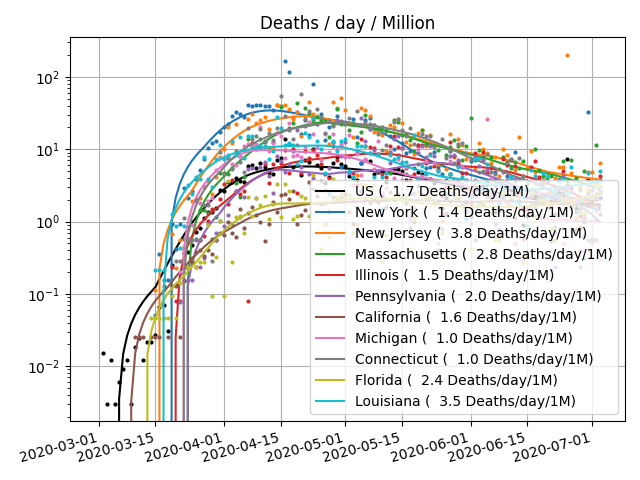
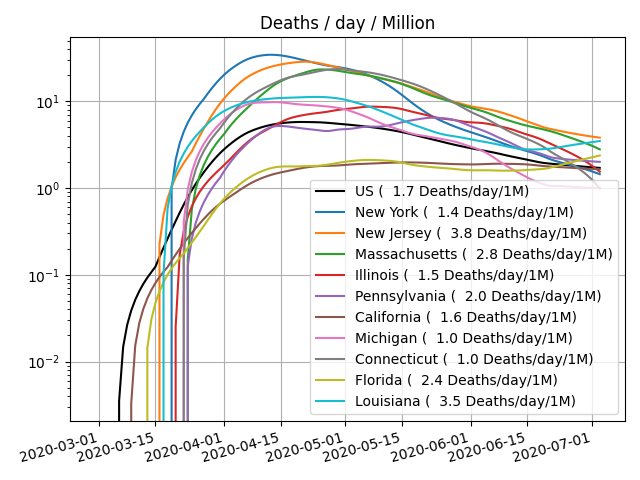
standardize US plots

diff --git a/covid/Analysis4.py b/covid/Analysis4.py
@@ -3,7 +3,7 @@ Created on Apr 9, 2020
 
 @author: D. F. Linton, Blue Lightning Development, LLC
 '''
-
+#TODO switch top 10 charts to use plotStateSet and include cases
 import os
 from pathlib import Path
 import warnings
@@ -128,7 +128,13 @@ def smooth( y, t ):
 
 class Analysis():
     def __init__(self):
-        self.asOf = ''
+        self.asOf = datetime.now()
+        self.topFourDeathsFraction = 0.0
+        self.topFourCasesFraction = 0.0
+        self.topFourPopulationFraction = 0.0
+        self.topTenDeathsFraction = 0.0
+        self.topTenCasesFraction = 0.0
+        self.topTenPopulationFraction = 0.0
         self.top10StatesTable = ''
         self.top10CountriesTable = ''
         self.statesLinks = np.array([],dtype=str)
@@ -282,7 +288,19 @@ class Analysis():
         plt.draw()
         fig.savefig(path)
         plt.close()      
-        return [ax1.get_xlim()[1], ax1.get_ylim()[1]]  
+        return [ax1.get_xlim()[1], ax1.get_ylim()[1]] 
+
+    def stateStats(self, which, states, population):
+        usValue = states[['US']].values[-1][0]
+        usPop = population['US']
+        totalPop = 0
+        totalValue = 0
+        for one in which:
+            totalValue += states[[one]].values[-1][0]
+            totalPop += population[one]
+        r = [(totalValue-usValue)/usValue, (totalPop-usPop)/usPop]
+        return r
+        
 
     def plotStateSet( self, what, path, which, states, population):
 #         fig = plt.figure(constrained_layout=False, figsize=(8,9))
@@ -334,7 +352,8 @@ class Analysis():
             
             
             ax2.semilogy( state.index[:], trend, linestyle='solid', color=color, label='%s (%5.1f %s/day/1M)' % (one, trend[-1], what))
-            ax2.semilogy( state.index[:], ypct, color=color, linestyle='', markeredgecolor='none', marker='.' )
+            if len(which) < 6:
+                ax2.semilogy( state.index[:], ypct, color=color, linestyle='', markeredgecolor='none', marker='.' )
 #             ax2.annotate('%5.2f' % trend[-1],
 #                     xy=(state.index[-1], trend[-1]), xycoords='data',
 #                     xytext=(-10, 30), textcoords='offset points', color=color,
@@ -347,6 +366,7 @@ class Analysis():
         fig1.savefig(path % (what, ''))
         fig2.savefig(path % (what, 'PerDay'))
         plt.close()
+        return self.stateStats(which, states, population)
         
     def DDGR2RG(self, x):
         return 100.0*(x-1)
@@ -495,9 +515,15 @@ class Analysis():
         xymax = self.plotAllStatesRates(outPath+"/analysis/AllDailyCasesVsDeaths.png", data )
         self.plotAllStatesRates(outPath+"/analysis/FourDailyCasesVsDeaths.png", four, xmax=xymax[0], ymax=xymax[1] )
         
-        self.plotStateSet('Deaths', outPath+"/analysis/4Largest%s%s.png", topFour, f, population)
-        self.plotStateSet('Confirmed Cases', outPath+"/analysis/4Largest%s%s.png", topFour, fc, population)
+        self.topFourDeathsFraction, self.topFourPopulationFraction = self.plotStateSet('Deaths', outPath+"/analysis/4Largest%s%s.png", topFour, f, population)
+        self.topFourCasesFraction, __ = self.plotStateSet('Confirmed Cases', outPath+"/analysis/4Largest%s%s.png", topFour, fc, population)
+        topTen = ['US',]
+        for i in range(0,10):
+            topTen.append( f.columns[i])
+        self.topTenDeathsFraction, self.topTenPopulationFraction = self.plotStateSet('Deaths', outPath+"/analysis/10Largest%s%s.png", topTen, f, population)
+        self.topTenCasesFraction, __ = self.plotStateSet('Confirmed Cases', outPath+"/analysis/10Largest%s%s.png", topTen, fc, population)
         
+        #TODO switch top 10 charts to use plotStateSet and include cases
     #     print('%-15s   N  %10s  %10s  %7s %7s %7s %7s' % ('State', 'Deaths', 'Per 1M', 'DDGR[-7]', 'DDGR[-3]', 'DDGR[-2]', 'DDGR[-1]'))
         header1 = ("|State|Days|Deaths|Deaths/1M|DDRG[6:7]|DDRG[2:3]|DDRG[1:2]|DDRG[0:1]|\n")
         header2 = ("|:--|--:|--:|--:|--:|--:|--:|--:|\n")
@@ -634,6 +660,12 @@ if __name__ == '__main__':
     fields = dict();
     tag = 'at %s for data as of %s' % (datetime.date(datetime.now()), analysis.asOf.date())
     fields.update({'date': tag})
+    fields.update({'topFourPop': '%.1f%%' % (100.0*analysis.topFourPopulationFraction)})
+    fields.update({'topFourDeaths': '%.1f%%' % (100.0*analysis.topFourDeathsFraction)})
+    fields.update({'topFourCases': '%.1f%%' % (100.0*analysis.topFourCasesFraction)})
+    fields.update({'topTenPop': '%.1f%%' % (100.0*analysis.topTenPopulationFraction)})
+    fields.update({'topTenDeaths': '%.1f%%' % (100.0*analysis.topTenDeathsFraction)})
+    fields.update({'topTenCases': '%.1f%%' % (100.0*analysis.topTenCasesFraction)})
     fields.update({'top10StatesTable': analysis.top10StatesTable})
     fields.update({'top10CountriesTable': analysis.top10CountriesTable})
     fields.update({'statesLinks': statesContent})

diff --git a/analysis/ANALYSIS.md b/analysis/ANALYSIS.md
@@ -5,7 +5,7 @@ Uses the total death counts from the daily report files from the JHU CSSE COVID-
 
 # US Confirmed Case Rates vs. Death Rates #
 
-The next several plots show _per capita_ data for the four US states with the largest populations: California, Florida, Texas, and New York.
+The next several plots show _per capita_ data for the four US states with the largest populations: California, Florida, Texas, and New York.  These four states comprise 33.2% of the US population and account for 34.6% of deaths and 36.2% of confirmed cases.  Per capita data is expressed per million of population.  One per million is 0.0001%.  1% is 10,000 per million.  
 
 ![Deaths](https://github.com/lintondf/COVIDtoTimeSeries/raw/master/analysis/4LargestDeaths.png)
 
@@ -27,7 +27,7 @@ The next two plots show the latest 21-day trajectory of deaths/day/million vs co
 
 The next plots shows the total US deaths to date from COVID-19 compared to historical seasonal flus and 20th century pandemics.
 
-![Compared To Flus](https:f//github.com/lintondf/COVIDtoTimeSeries/raw/master/analysis/ComparedToFlus.png)
+![Compared To Flus](https://github.com/lintondf/COVIDtoTimeSeries/raw/master/analysis/ComparedToFlus.png)
 
 
 Daily Death Growth Rate (DDGR)  is the cube root of Arnold Kling's [Three Day Death Reproduction Rate (3DDRR)](http://www.arnoldkling.com/blog/the-3ddrr/).  The 3DDRR is calculated by dividing the cumulative total number of deaths on a given day by the  cumulative total number of deaths three days previously; yes, technically this is a factor not a rate, but we must grant Professor Kling the author's naming rights.  Taking the cube root converts this to the geometric mean for the three days.  These values are LOWESS filtered to generate local-error minimizing non-parametric trend lines.
@@ -55,13 +55,19 @@ However, since the production of these charts is automatic I will continue to up
 
 # Ten US States with Highest Death Tolls #
 
-Deaths in the 10 US States with the highest death tolls expressed as deaths per 1 million population. One per million is 0.0001%.  1% is 10,000 per million.
+Deaths in the 10 US States with the highest death tolls expressed as deaths per 1 million population. These ten states comprise 42.5% of the US population and account for 71.9% of deaths and 54.7% of confirmed cases.
 
-![US States with Highest Death Toll - Death Rates](https://github.com/lintondf/COVIDtoTimeSeries/raw/master/analysis/States10WorstDeathRates.png)
+![US States with Highest Death Toll - Death Toll](https://github.com/lintondf/COVIDtoTimeSeries/raw/master/analysis/10LargestDeaths.png)
+
+![US States with Highest Death Toll - Death Rates](https://github.com/lintondf/COVIDtoTimeSeries/raw/master/analysis/10LargestDeathsPerDay.png)
+
+![US States with Highest Death Toll - Cases Toll](https://github.com/lintondf/COVIDtoTimeSeries/raw/master/analysis/10LargestConfirmed%20Cases.png)
+
+![US States with Highest Death Toll - Cases Rates](https://github.com/lintondf/COVIDtoTimeSeries/raw/master/analysis/10LargestConfirmed%20CasesPerDay.png)
 
 Daily Death Rate of Growth (DDRG) in the 10 US States with the highest death tolls.
 
-![US States with Highest Death Toll - Daily Death Rate of Growths](https://github.com/lintondf/COVIDtoTimeSeries/raw/master/analysis/States10WorstDDRG.png)
+![US States with Highest Death Toll - Daily Death Rate of Growths](https://github.com/lintondf/COVIDtoTimeSeries/raw/master/analysis/States10WorstDDGR.png)
 
 |State|Days|Deaths|Deaths/1M|DDRG[6:7]|DDRG[2:3]|DDRG[1:2]|DDRG[0:1]|
 |:--|--:|--:|--:|--:|--:|--:|--:|
